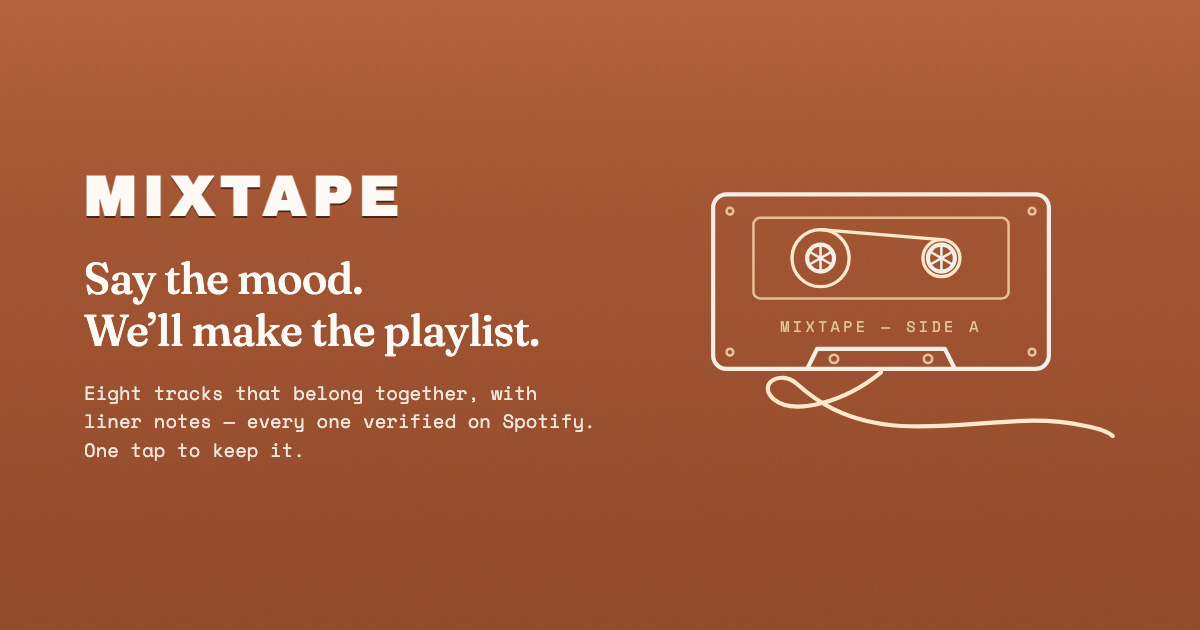
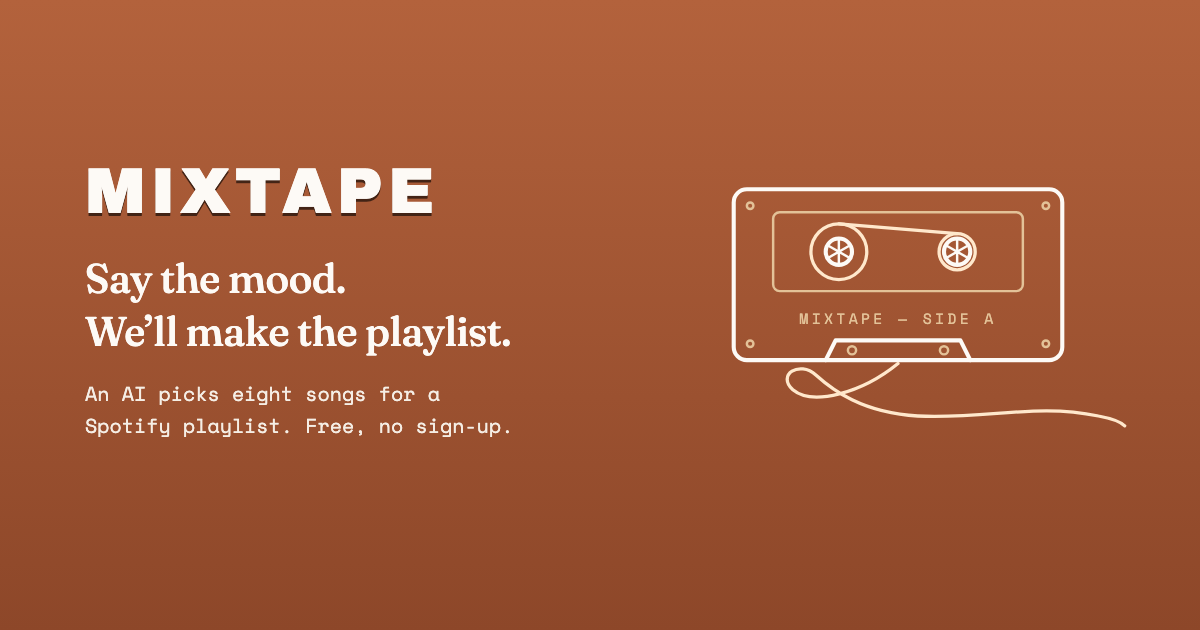
link-preview image with the new pitch; one share button
- og.png redrawn with "An AI picks eight songs for a Spotify playlist.
  Free, no sign-up." in place of the liner-notes line. The image had no
  source in the repo; docs/launch/og-source.html is the page it is
  rendered from, with the command in its first line.
- Saved state: "copy link" is gone. With no share sheet, "share" is a
  copy, so the pair was one action twice.

diff --git a/docs/launch/og-source.html b/docs/launch/og-source.html
@@ -1,0 +1,30 @@
+<!-- Source of client/public/og.png (1200x630). Render: Chrome --headless=new --window-size=1200,630 --force-device-scale-factor=1 --virtual-time-budget=8000 --screenshot=og.png file://.../og-source.html -->
+<!doctype html><html><head><meta charset="utf-8">
+<link href="https://fonts.googleapis.com/css2?family=Archivo+Black&family=Space+Mono&family=Fraunces:opsz,wght@9..144,500&display=block" rel="stylesheet">
+<style>
+html,body{margin:0}
+body{width:1200px;height:630px;overflow:hidden;background:linear-gradient(to bottom,#b3623c,#8d4729);color:#fdfaf6;position:relative}
+.w{position:absolute;left:85px;top:160px;font:400 64px/1 "Archivo Black",sans-serif;letter-spacing:5px;text-shadow:0 3px 0 rgba(0,0,0,.6)}
+.t{position:absolute;left:85px;top:252px;font:500 41px/1.3 Fraunces,serif;letter-spacing:-0.01em}
+.s{position:absolute;left:85px;top:378px;font:400 20px/1.6 "Space Mono",monospace;color:#f5eee5}
+svg{position:absolute;left:668px;top:186px;width:460px;color:#fdfaf6}
+.l{stroke:#e3c298} .a{stroke:#ffe8cc}
+text{font:9px "Space Mono",monospace;letter-spacing:2px;fill:#e3c298;stroke:none}
+</style></head><body>
+<div class="w">MIXTAPE</div>
+<div class="t">Say the mood.<br>We’ll make the playlist.</div>
+<div class="s">An AI picks eight songs for a<br>Spotify playlist. Free, no sign-up.</div>
+<svg viewBox="0 12 280 148" fill="none" stroke="currentColor" stroke-width="2.5" stroke-linecap="round" stroke-linejoin="round">
+<rect x="40" y="14" width="200" height="104" rx="8"/>
+<rect x="64" y="28" width="152" height="48" rx="4" stroke-width="1.5" class="l"/>
+<g class="l" stroke-width="1.5"><circle cx="50" cy="24" r="2"/><circle cx="230" cy="24" r="2"/><circle cx="50" cy="108" r="2"/><circle cx="230" cy="108" r="2"/></g>
+<circle cx="104" cy="52" r="17" stroke-width="2" class="a"/>
+<g><circle cx="104" cy="52" r="8"/><path stroke-width="1.5" d="M104 45v14M97.9 48.5l12.2 7M97.9 55.5l12.2-7"/></g>
+<circle cx="176" cy="52" r="11" stroke-width="2" class="a"/>
+<g><circle cx="176" cy="52" r="8"/><path stroke-width="1.5" d="M176 45v14M169.9 48.5l12.2 7M169.9 55.5l12.2-7"/></g>
+<path d="M104 35 L176 41" stroke-width="2" class="a"/>
+<text x="140" y="96" text-anchor="middle">MIXTAPE — SIDE A</text>
+<path d="M96 118l6-12h76l6 12"/>
+<g class="l" stroke-width="1.5"><circle cx="112" cy="112" r="2.5"/><circle cx="168" cy="112" r="2.5"/></g>
+<path class="a" stroke-width="2" d="M140 120 C118 138 88 146 76 136 C66 127 80 118 90 127 C100 136 118 150 152 152 C196 154 224 144 262 152 C270 153.5 276 156 278 158"/>
+</svg></body></html>

diff --git a/client/src/App.tsx b/client/src/App.tsx
@@ -693,7 +693,7 @@ export default function LinerNotes() {
   const [saving, setSaving] = useState(false);
   const [playlistUrl, setPlaylistUrl] = useState<string | null>(null);
   const [savedToLibrary, setSavedToLibrary] = useState(false);
-  const [copied, setCopied] = useState<"link" | "tracks" | "share" | null>(null);
+  const [copied, setCopied] = useState<"tracks" | "share" | null>(null);
   const [saveError, setSaveError] = useState<string | null>(null);
   // "your mixtapes": this browser's presses, newest first (see recent.ts)
   const [recent, setRecent] = useState<RecentMixtape[]>(() => loadRecent(browserStorage));
@@ -1276,11 +1276,11 @@ export default function LinerNotes() {
     `https://open.spotify.com/search/${encodeURIComponent(t.artist + " " + t.title)}`;
 
   // Clipboard feedback is the button's own label for a beat, not a toast.
-  const copyText = async (text: string, what: "link" | "tracks") => {
+  const copyText = async (text: string, what: "tracks") => {
     try {
       await navigator.clipboard.writeText(text);
       setCopied(what);
-      setAnnounce(what === "link" ? "Link copied." : "Track list copied.");
+      setAnnounce("Song list copied.");
       setTimeout(() => setCopied((c) => (c === what ? null : c)), 1800);
     } catch {
       setAnnounce("Couldn't copy — select it by hand.");
@@ -2095,13 +2095,9 @@ export default function LinerNotes() {
                     : "Your playlist is ready. Open it and tap + to add it to your library."}
                 </div>
                 <div className="pressed-actions">
-                  <button
-                    type="button"
-                    className="btn-ghost"
-                    onClick={() => copyText(playlistUrl, "link")}
-                  >
-                    {copied === "link" ? "copied ✓" : "copy link"}
-                  </button>
+                  {/* one button, not "copy link" + "share": with no share
+                      sheet (a desktop) share IS a copy, so the pair was the
+                      same action twice */}
                   <button
                     type="button"
                     className="btn-ghost"
